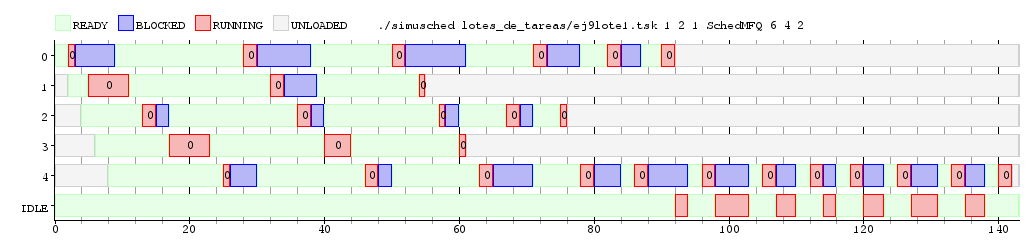
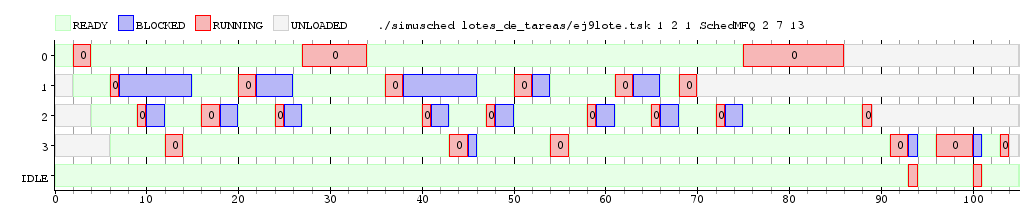
ffdfds

Changed region(s): [[0.0, 0.1659, 0.9971, 0.9401], [0.3739, 0.0829, 0.779, 0.1382], [0.0312, 0.0553, 0.3427, 0.1382]]

diff --git a/tp1/informe/ej9.tex b/tp1/informe/ej9.tex
@@ -8,11 +8,6 @@ Este scheduler posee n colas \emph{Round Robin} y a cada una de ellas le está a
 
 La estructura que utilizamos es la siguiente:
 
-		vector<int> quantums_por_cola; //El quantum que corresponde a cada cola
-		vector< queue<proceso*> > colas_de_procesos; //Vector de colas de procesos
-		vector<proceso*> proceso_en_core; //Procesos corriendo
-		vector<proceso*> proceso_bloqueado; //Procesos bloqueados
-
 \begin{itemize}
 
 \item \textbf{quantums\_por\_cola}: vector que posee el quantum que corresponde a cada cola.
@@ -68,12 +63,14 @@ La función \textbf{tick} tiene un comportamiento mas complejo que pasamos a det
 
 Para estas pruebas generamos un lote (\textit{ej9lote}) que posee cinco tareas de los tipos TaskCPU, TaskConsola, TaskBatch y TaskAlterno, elegimos este lote para estudiar como se comporta con tareas que hacen uso intensivo del CPU y tareas interactivas que realizan llamadas bloqueantes. Estas son lanzadas desde el comienzo con una diferencia de dos clocks cada una. La cantidad de cores es de uno, el costo del cambio de contexto es de dos y el costo de cambiar un proceso de núcleo es de uno.
 
-En este caso, tenemos tres colas de quantums crecientes (8, 10 y 12), crecientes (4, 6 y 8) y (1, 2, 3). Veamos cómo se comportan:
+En este caso, tenemos tres colas de quantums crecientes (2, 7 y 13), (4, 6 y 8) y (1, 2, 3). Veamos cómo se comportan:
+
+\newpage
 
 \begin{figure}[!h]
 	\begin{center}
 		\includegraphics[width=500px]{imagenes/ej9_1.png}
-		\caption{Ejecución del lote \emph{ej9lote} con tres colas de quantum decreciente.}
+		\caption{Ejecución del lote \emph{ej9lote} con tres colas de quantum 2, 7 y 13.}
 		\label{fig:grafico_ej9_1}
 	\end{center}
 \end{figure}
@@ -81,7 +78,7 @@ En este caso, tenemos tres colas de quantums crecientes (8, 10 y 12), crecientes
 \begin{figure}[!h]
 	\begin{center}
 		\includegraphics[width=500px]{imagenes/ej9_2.png}
-		\caption{Ejecución del lote \emph{ej9lote} con tres colas de quantum creciente.}
+		\caption{Ejecución del lote \emph{ej9lote} con tres colas de quantum 4, 6 y 8.}
 		\label{fig:grafico_ej9_2}
 	\end{center}
 \end{figure}
@@ -89,7 +86,7 @@ En este caso, tenemos tres colas de quantums crecientes (8, 10 y 12), crecientes
 \begin{figure}[!h]
 	\begin{center}
 		\includegraphics[width=500px]{imagenes/ej9_3.png}
-		\caption{Ejecución del lote \emph{ej9lote} con tres colas con quantum 3.}
+		\caption{Ejecución del lote \emph{ej9lote} con tres colas con quantum 1, 2, 3.}
 		\label{fig:grafico_ej9_3}
 	\end{center}
 \end{figure}
@@ -100,9 +97,9 @@ En este caso, tenemos tres colas de quantums crecientes (8, 10 y 12), crecientes
 		\hline
 		\multicolumn{3}{|c|}{\large{\textbf{Latencia Promedio}}} \\
 		\hline
-		\textbf{Quantum Decreciente} & \textbf{Quantum Creciente} & \textbf{Quantum Estable} \\
+		\textbf{Quantums 2, 7, 13} & \textbf{Quantums 4, 6, 8} & \textbf{Quantums 1, 2, 3} \\
 		\hline
-		8,4 & 5,2 & 6 \\
+		4,25 & 5,75 & 3,5 \\
 		\hline
 	\end{tabular}
 \end{center}
@@ -113,9 +110,9 @@ En este caso, tenemos tres colas de quantums crecientes (8, 10 y 12), crecientes
 		\hline
 		\multicolumn{3}{|c|}{\large{\textbf{Waiting Time Promedio}}} \\
 		\hline
-		\textbf{Quantum Decreciente} & \textbf{Quantum Creciente} & \textbf{Quantum Estable} \\
+		\textbf{Quantums 2, 7, 13} & \textbf{Quantums 4, 6, 8} & \textbf{Quantums 1, 2, 3} \\
 		\hline
-		50,2 & 57,4 & 58 \\
+		59,75 & 55,5 & 76,25 \\
 		\hline
 	\end{tabular}
 \end{center}
@@ -126,13 +123,11 @@ En este caso, tenemos tres colas de quantums crecientes (8, 10 y 12), crecientes
 		\hline
 		\multicolumn{3}{|c|}{\large{\textbf{Tiempo Total De Ejecución Promedio}}} \\
 		\hline
-		\textbf{Quantum Decreciente} & \textbf{Quantum Creciente} & \textbf{Quantum Estable} \\
+		\textbf{Quantums 2, 7, 13} & \textbf{Quantums 4, 6, 8} & \textbf{Quantums 1, 2, 3} \\
 		\hline
-		81,6 & 86,4 & 90,6 \\
+		84,25 & 81,5 & 100,5 \\
 		\hline
 	\end{tabular}
 \end{center}
 
-Cómo podemos observar en esta prueba, tener un quantum decreciente hace que la latencia sea la mayor, pero genera un waiting time y tiempo total de ejecución menores que las otras dos ejecuciones con quantum creciente y quantum estable. Tener un quantum creciente genera que su latencia promedio sea la menor pero con waiting time promedio y tiempo de ejecución promedio mucho mayores. Tener un quantum estable genera que este scheduler sea cómo un \textbf{Round Robin} común ya que no se diferencian las prioridades de las colas que pueda poseer.
-
-Este scheduler resulta interesante para analizar y comparar contra los otros schedulers vistos en este trabajo ya que podría mejorar la performance de estos. 
+Cómo podemos observar en esta prueba, las tareas interactivas que tienen muchas llamadas bloqueantes se ejecutan más frecuentemente que las que hacen uso intensivo del CPU dado que su prioridad aumenta en cada bloqueo. Por lo contrario se puede observar que las tareas que no tienen llamadas bloqueantes disminuyen su prioridad pero se ven recompensadas con un mayor quantum. En las pruebas con quantum pequeños el comportamiento es muy similar al de un Round Robin convencional dado que las tareas interactivas acaban con su quantum antes de realizar llamadas bloqueantes que aumentarían su prioridad, en cambio con colas de mayor quantum las tareas interactivas logran realizar sus llamadas bloqueadas y se puede ver explicitamente el funcionamiento de este scheduler.

diff --git a/tp1/simusched/sched_mfq.h b/tp1/simusched/sched_mfq.h
@@ -26,7 +26,6 @@ class SchedMFQ : public SchedBase {
 	private:
 
 		proceso* siguiente_proceso();
-		void sacar_proceso(int core);
 
 		vector<int> quantums_por_cola; //El quantum que corresponde a cada cola
 		vector< queue<proceso*> > colas_de_procesos; //Vector de colas de procesos
